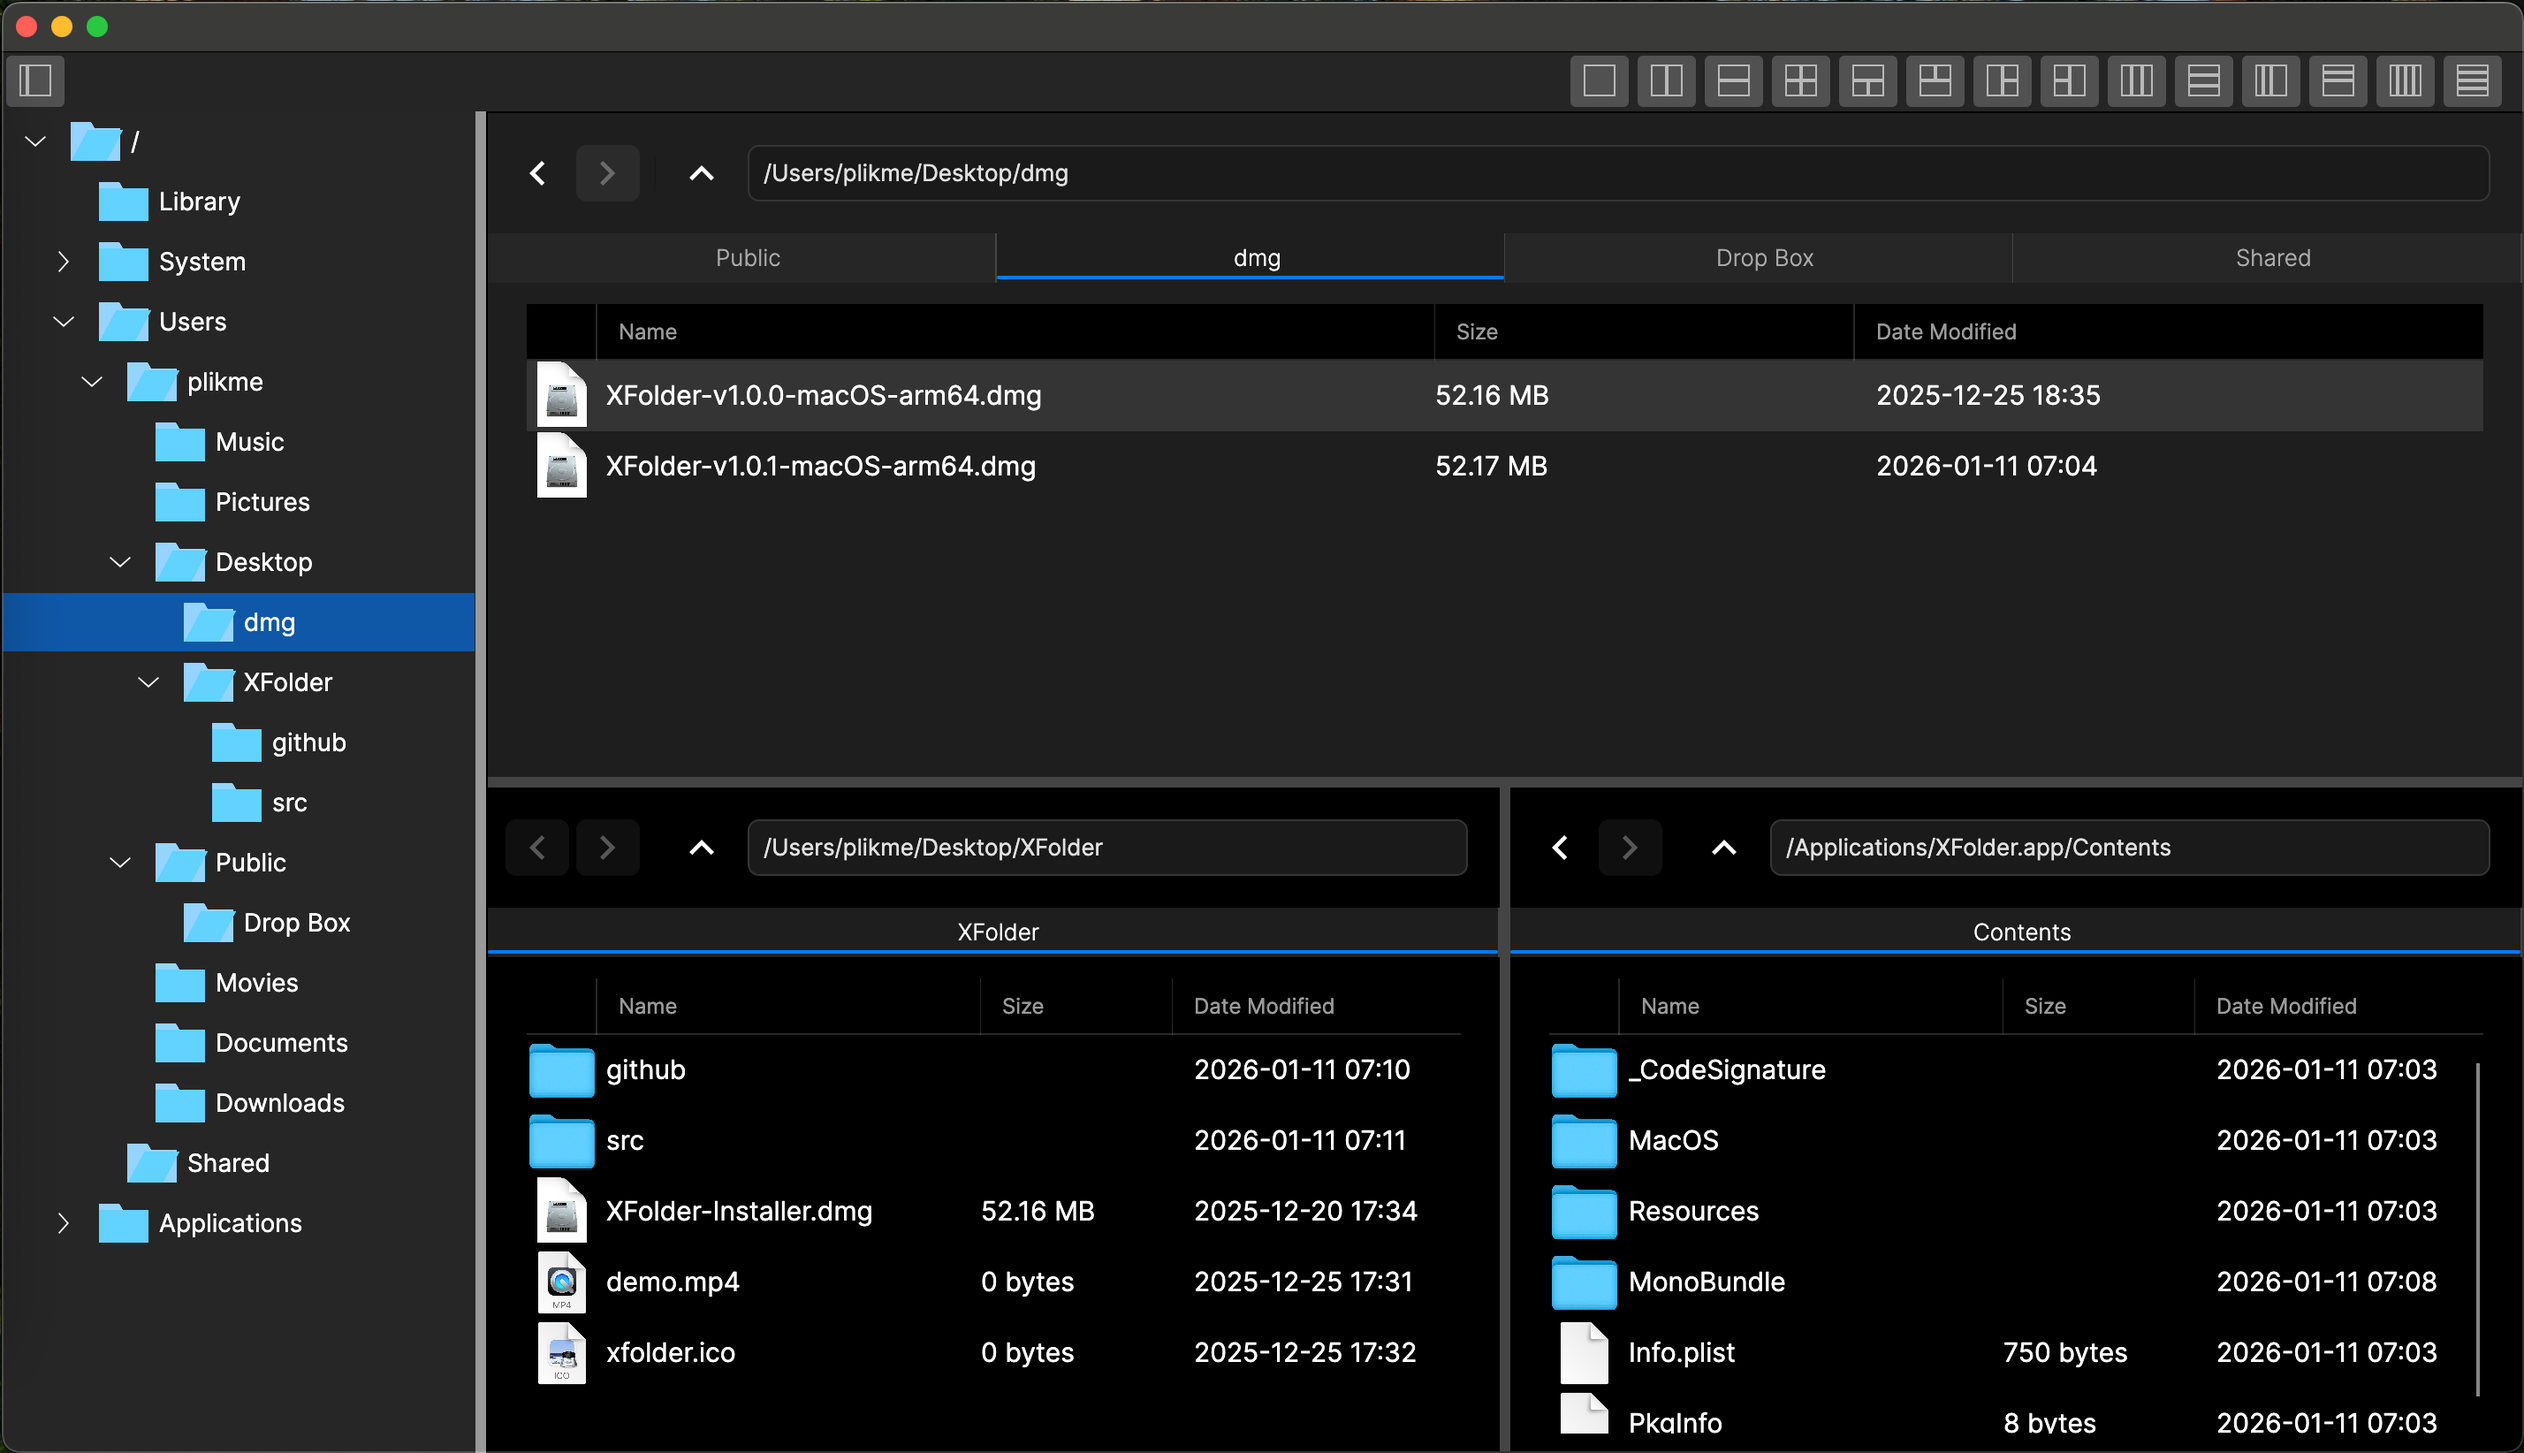
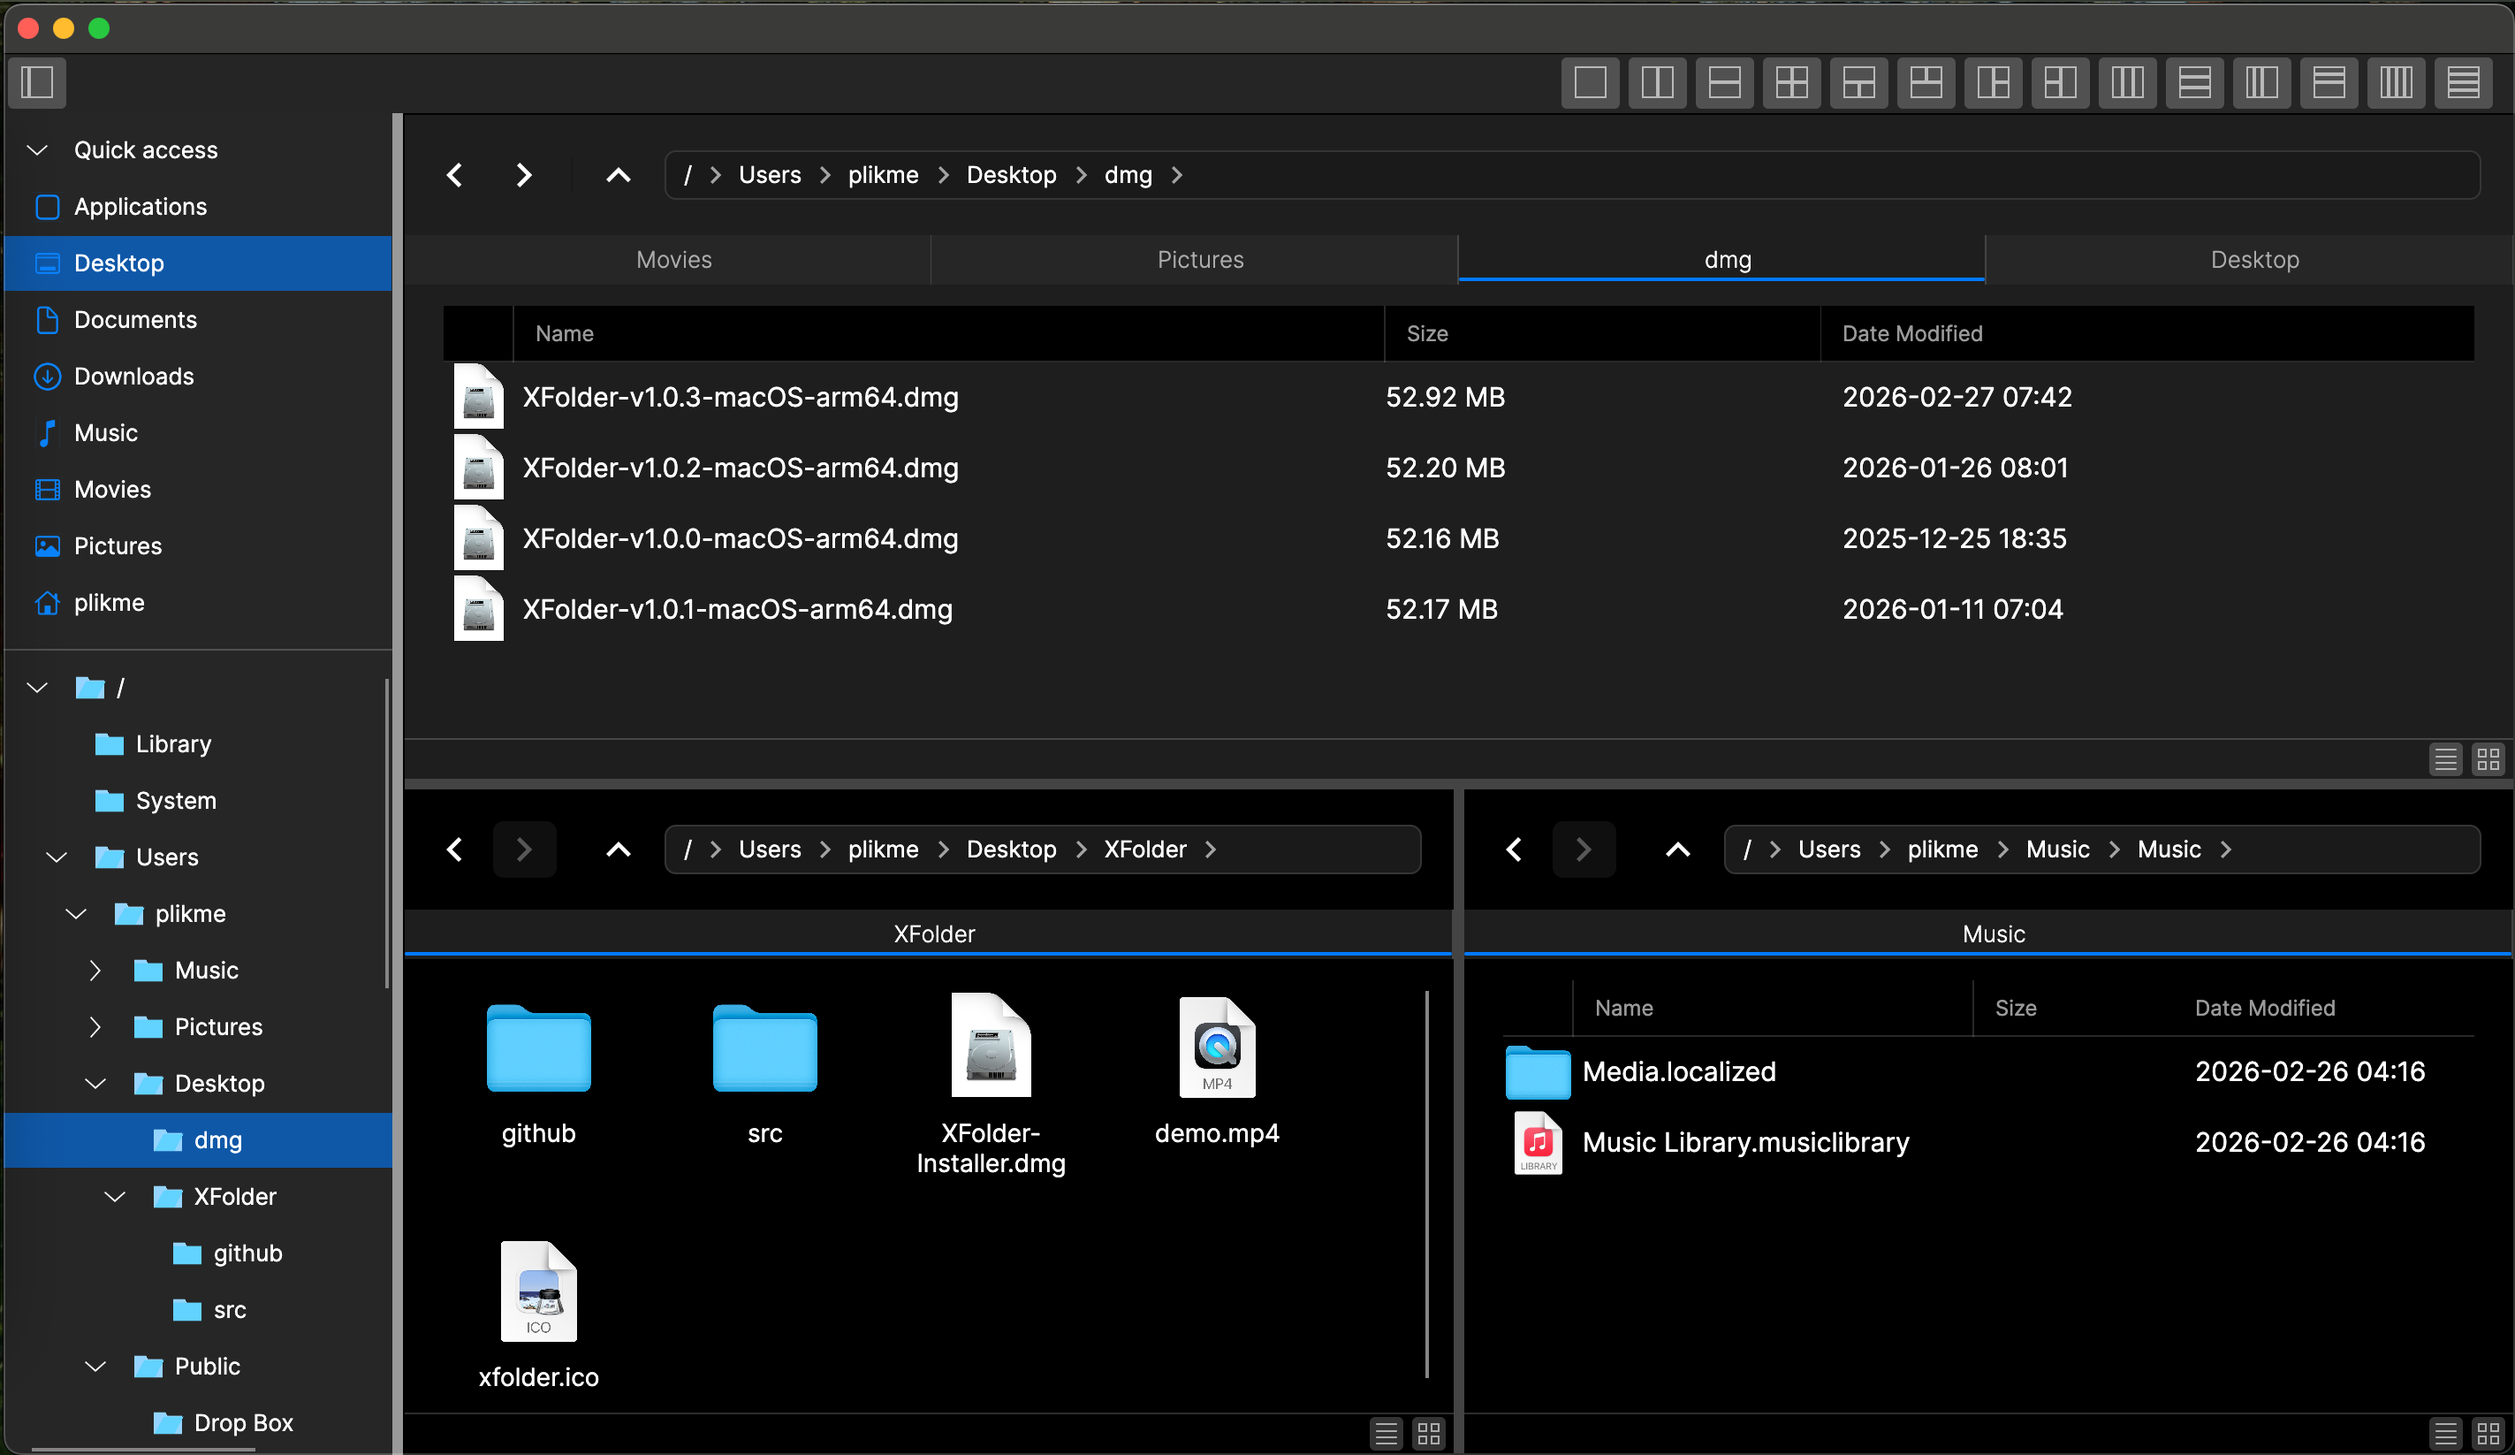
update

diff --git a/README_zh.md b/README_zh.md
@@ -1,0 +1,98 @@
+<p align="center">
+    <img src="assets/logo.ico" width="128" alt="XFolder Logo">
+</p>
+
+# XFolder
+
+[English](README.md) | [中文](README_zh.md)
+
+XFolder 是一款专为 macOS 打造的现代化文件管理器。它融合了多窗格视图、文件目录树及多标签页 (Tabs) 管理等核心特性，旨在提供比 Finder 更高效、更灵活的文件浏览体验。
+
+本项目基于 C# (Avalonia UI) 和 Swift 构建。
+
+## 📸 预览 (Preview)
+
+<p align="center">
+    <img src="assets/xfolder_light.png" width="100%" alt="Light Mode">
+    <img src="assets/xfolder_dark.png" width="100%" alt="Dark Mode">
+</p>
+
+## 📥 下载与安装 (Download)
+
+本软件暂不开源代码。您可以直接从 GitHub Releases 页面下载最新版本的 macOS 安装包。
+
+[👉 前往下载页面 (GitHub Releases)](https://github.com/zebrapixel/XFolder/releases) 
+*(请根据实际发布的 URL 更新此链接)*
+
+### 安装步骤
+1. 下载最新的 `XFolder-Installer.dmg` 文件。
+2. 双击打开 `.dmg` 文件。
+3. 将 `XFolder` 图标拖拽至 `Applications` (应用程序) 文件夹中。
+4. 从启动台或应用程序文件夹中点击 `XFolder` 启动。
+
+> **注意**: 由于未进行 Apple 开发者签名（视情况修改），初次运行时若提示“无法打开”或“未知开发者”，请前往 **设置** > **隐私与安全性** 中点击“仍要打开”。
+
+## ✨ 主要特性 (Features)
+
+*   **多窗格布局** - 支持水平、垂直及混合布局，灵活管理文件
+*   **多标签页管理** - 在每个窗格中打开多个文件夹
+*   **目录树视图** - 通过内置的目录树导航文件夹层级
+*   **快捷访问** - 将常用文件夹（如桌面、文档、下载）固定到侧边栏，实现快速访问
+*   **面包屑路径导航** - 直观的面包屑路径导航栏，显示完整目录层级，支持点击切换
+
+## ⌨ 常用快捷键 (Shortcuts)
+
+XFolder 支持丰富的键盘快捷键以提升效率：
+
+### User Interface / Navigation
+| Action | Shortcut |
+| :--- | :--- |
+| **Next Pane** | `⌃` + `⇧` + `→` |
+| **Previous Pane** | `⌃` + `⇧` + `←` |
+| **Details View** | `⌃` + `0` or `⌃` + `Num 0` |
+| **Grid View** | `⌃` + `1` or `⌃` + `Num 1` |
+| **Open in Finder** | `⌘` + `E` |
+| **Open Terminal** | `⌃` + `~` |
+
+### File Operations
+| Action | Shortcut |
+| :--- | :--- |
+| **Copy** | `⌘` + `C` |
+| **Cut** | `⌘` + `X` |
+| **Paste** | `⌘` + `V` |
+| **Select All** | `⌘` + `A` |
+| **Delete** | `Delete` or `⌘` + `D` |
+| **Delete Permanently** | `⇧` + `Delete` |
+| **Rename** | `F2` |
+| **Open** | `Enter` |
+| **New Folder** | `⌘` + `⇧` + `N` |
+
+### Tabs & Editing
+| Action | Shortcut |
+| :--- | :--- |
+| **Close Tab** | `⌘` + `W` |
+| **Duplicate Tab** | `⌘` + `⇧` + `K` |
+| **Undo** | `⌘` + `Z` |
+| **Redo** | `⌘` + `Y` |
+
+*(更多快捷键请在应用内查看帮助菜单)*
+
+## 💬 反馈与支持 (Feedback)
+
+如果您在使用过程中遇到 Bug 或有新的功能建议，欢迎在 GitHub Issues 中提出。
+
+*   [提交 Bug 反馈](https://github.com/zebrapixel/XFolder/issues)
+*   [功能建议](https://github.com/zebrapixel/XFolder/issues)
+
+## 🙏 致谢 (Acknowledgements)
+
+特别感谢以下项目对本软件的支持：
+
+*   **[AvaloniaUI](https://github.com/AvaloniaUI/Avalonia)**: 强大的跨平台 .NET UI 框架。
+*   **[Files](https://github.com/files-community/Files)**: 优秀的 Windows 文件管理器，本项目参考了其部分架构设计和代码。
+*   **[Q-Dir](https://www.q-dir.com)**: 经典的多窗口资源管理器，提供了重要的设计灵感。
+
+## 📄 许可说明 (License)
+
+XFolder 是私有软件 (Proprietary Software)，版权所有 (c)。
+保留所有权利。未经授权，禁止反编译、修改、重新打包或用于商业分发。

diff --git a/README.md b/README.md
@@ -4,6 +4,8 @@
 
 # XFolder
 
+[English](README.md) | [中文](README_zh.md)
+
 XFolder is a modern file manager designed specifically for macOS. It integrates core features such as multi-pane views, a smart directory tree, and multi-tab management, aiming to provide a more efficient and flexible file browsing experience than Finder.
 
 This project is built based on C# (Avalonia UI) and Swift.
@@ -32,9 +34,11 @@ The source code for this software is currently not open source. You can download
 
 ## ✨ Features
 
-*   **Tabs Management**
-*   **Multiple Pane Layouts**
-*   **Directory Tree View**
+*   **Multi-Pane Layouts** - Supports horizontal, vertical, and mixed layouts for flexible file management
+*   **Tabs Management** - Open multiple folders in separate tabs within each pane
+*   **Directory Tree View** - Navigate through folder hierarchies with a built-in tree view
+*   **Quick Access** - Pin frequently used folders like Desktop, Documents, and Downloads for instant access in the sidebar
+*   **Breadcrumb Navigation** - Intuitive path navigation bar showing full directory hierarchy with clickable segments
 
 ## ⌨ Shortcuts
 
